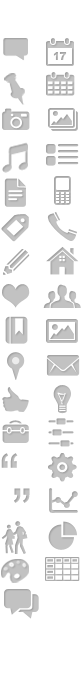
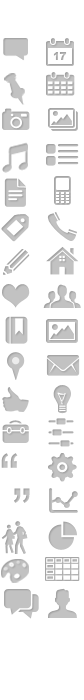
made content_meta model join to get user_id

Changed region(s): [[0.5714, 0.84, 0.9048, 0.9]]

diff --git a/application/views/dashboard_default/assets/style.css b/application/views/dashboard_default/assets/style.css
@@ -363,7 +363,7 @@ span.action_delete 					{ background-position: -25px 0; }
 span.action_share 					{ background-position: -50px 0; margin: 0 6px 0 0; }
 span.action_like 					{ background-position: -75px 0; }
 span.action_comment 				{ background-position: -100px 0; }
-span.action_get_place				{ background-position: -125px 0; }
+span.action_crosshairs				{ background-position: -125px 0; }
 span.action_link					{ background-position: -150px 0; }
 span.action_approve					{ background-position: -175px 0; }
 span.action_edit					{ background-position: -200px 0; }
@@ -383,7 +383,8 @@ span.action_down					{ background-position: -525px 0; }
 span.action_group					{ background-position: -550px 0; }
 span.action_link					{ background-position: -575px 0; }
 span.action_alarm					{ background-position: -600px 0; }
-
+span.action_person					{ background-position: -625px 0; }
+span.action_place					{ background-position: -650px 0; }
 
 /* Feed Specific */
 span.item_comment_left				{ width: 24px; height: 32px; display: block; float: left; background: url(images/item_type_icons.png) 0 -455px; position: relative; left: 0; top: 4px; }

diff --git a/application/models/content_model.php b/application/models/content_model.php
@@ -272,37 +272,41 @@ class Content_model extends CI_Model {
 	/* Content Meta */
     function get_meta($content_meta_id)
     {
- 		$this->db->select('*');
- 		$this->db->from('content_meta');  
- 		$this->db->where('content_meta_id', $content_meta_id);
+ 		$this->db->select('content_meta.*, content.user_id');
+ 		$this->db->from('content_meta');
+  		$this->db->join('content', 'content.content_id = content_meta.content_id');		  
+ 		$this->db->where('content_meta.content_meta_id', $content_meta_id);
 		$this->db->limit(1);
  		$result = $this->db->get()->row();	
  		return $result;
     }
     
     function get_meta_content($content_id)
-    {    		
- 		$this->db->select('*');
- 		$this->db->from('content_meta');  
- 		$this->db->where('content_id', $content_id);
+    {
+ 		$this->db->select('content_meta.*, content.user_id');
+ 		$this->db->from('content_meta');
+  		$this->db->join('content', 'content.content_id = content_meta.content_id');
+ 		$this->db->where('content_meta.content_id', $content_id);
  		$result = $this->db->get();
  		return $result->result();
     }
 
     function get_meta_content_meta($content_id, $meta)
     {    		
- 		$this->db->select('*');
- 		$this->db->from('content_meta');  
- 		$this->db->where(array('content_id' => $content_id, 'meta' => $meta));
+ 		$this->db->select('content_meta.*, content.user_id');
+ 		$this->db->from('content_meta');
+  		$this->db->join('content', 'content.content_id = content_meta.content_id'); 		
+ 		$this->db->where(array('content_meta.content_id' => $content_id, 'content_meta.meta' => $meta));
  		$result = $this->db->get()->row();	
  		return $result;
     }
 
     function get_meta_multiples($content_id_array)
     {
- 		$this->db->select('*');
+ 		$this->db->select('content_meta.*, content.user_id');
  		$this->db->from('content_meta');
- 		$this->db->or_where_in('content_id', $content_id_array);
+  		$this->db->join('content', 'content.content_id = content_meta.content_id');
+ 		$this->db->or_where_in('content_meta.content_id', $content_id_array);
  		$result = $this->db->get();
  		return $result->result();
     }
